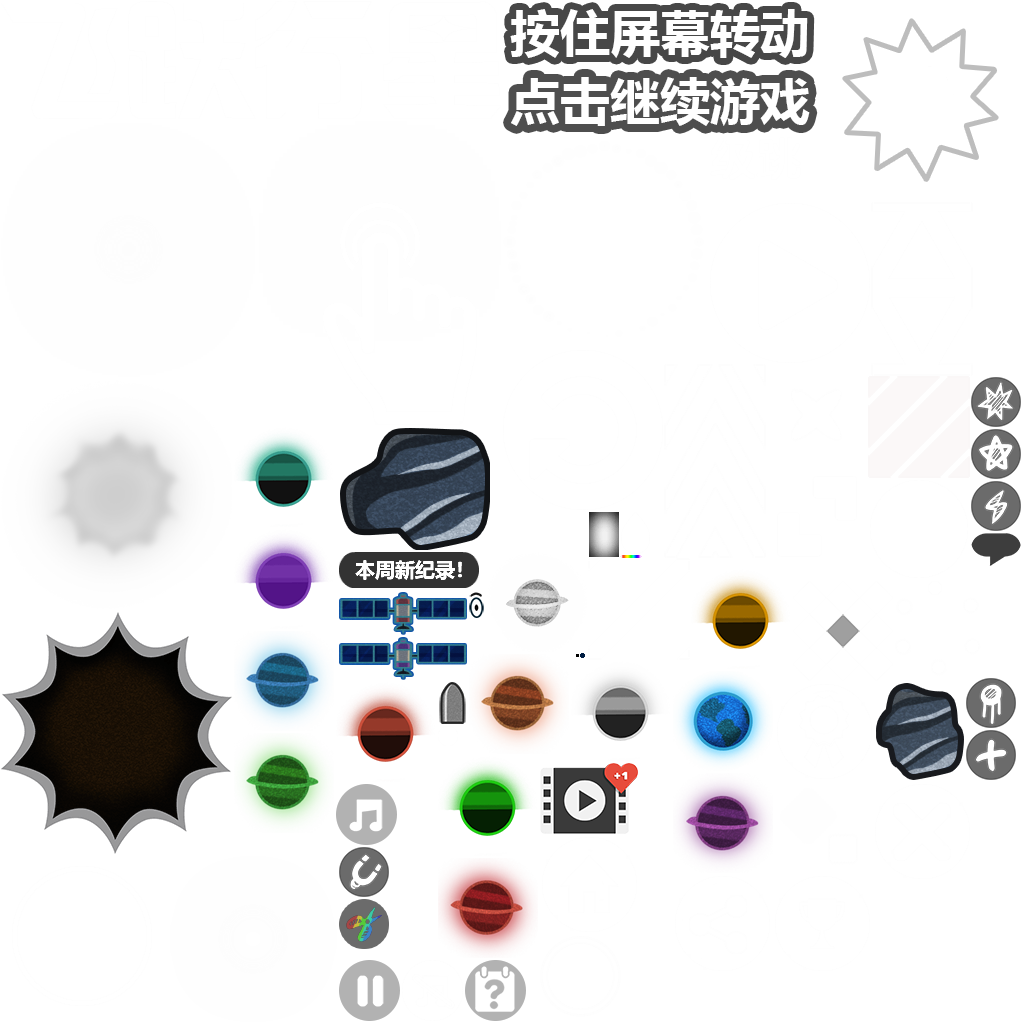
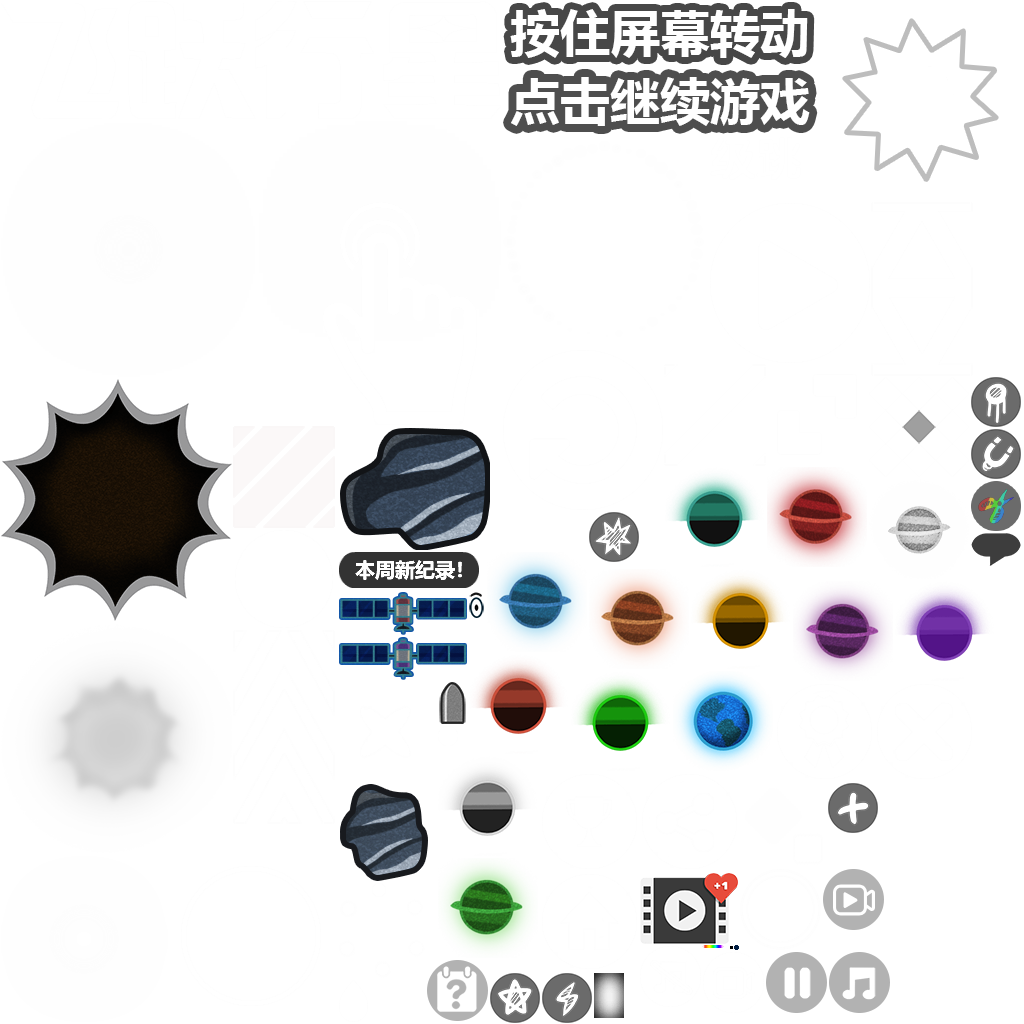
1

diff --git a/src/performance/ui/MainUI.ts b/src/performance/ui/MainUI.ts
@@ -1,28 +1,32 @@
 module planetJump {
-	export class MainUI extends fairygui.GComponent{
-		private scoreTxt:ScoreText;
-		private multTxt:fairygui.GComponent;
-		private levelTxt:fairygui.GComponent;
-		private pauseBtn:fairygui.GButton;
-		private musicBtn:fairygui.GButton;	
-		private helpBtn:fairygui.GButton;	
-		private closeHelpBtn:fairygui.GButton;	
-		private pausePanel:fairygui.GComponent;
-		private helpPanel:fairygui.GComponent;
-		private continueBtn:fairygui.GButton;
-		private newRecord:fairygui.GComponent;
-		private gameOverCtrl:fairygui.Controller;
+	export class MainUI extends fairygui.GComponent {
+		private scoreTxt: ScoreText;
+		private multTxt: fairygui.GComponent;
+		private levelTxt: fairygui.GComponent;
+		private pauseBtn: fairygui.GButton;
+		private musicBtn: fairygui.GButton;
+		private helpBtn: fairygui.GButton;
+		private closeHelpBtn: fairygui.GButton;
+		private recordBtn: fairygui.GButton;
+		private pausePanel: fairygui.GComponent;
+		private helpPanel: fairygui.GComponent;
+		private continueBtn: fairygui.GButton;
+		private newRecord: fairygui.GComponent;
+		private gameOverCtrl: fairygui.Controller;
+		private platCtrl: fairygui.Controller;
 
-		private soundOn:boolean = true;
-		private hasShowNewRecord:boolean = false;
+		private soundOn: boolean = true;
+		private hasShowNewRecord: boolean = false;
+		private recordTime: number;
+		private isRecording: boolean;
 
-		public constructor(){
+		public constructor() {
 			super();
 			let self = this;
 			utils.StageUtils.addEventListener("createGame", self.onCreateGame, self);
 		}
 
-		private onCreateGame(){
+		private onCreateGame() {
 			let self = this;
 			self.registerListener();
 			self.gameOverCtrl.setSelectedIndex(0);
@@ -34,7 +38,7 @@ module planetJump {
 			self.setSound();
 		}
 
-		private registerListener(){
+		private registerListener() {
 			let self = this;
 			utils.EventDispatcher.getInstance().addEventListener("updateScore", self.updateScore, self);
 			utils.EventDispatcher.getInstance().addEventListener("onAppPause", self.onPause, self);
@@ -45,20 +49,20 @@ module planetJump {
 			utils.EventDispatcher.getInstance().addEventListener("gameReviveOk", self.onGameReviveOk, self);
 		}
 
-		public constructFromResource(){
-            super.constructFromResource();
-            let self = this;
-			self.pauseBtn = self.getChild("pauseBtn").asButton;   
+		public constructFromResource() {
+			super.constructFromResource();
+			let self = this;
+			self.pauseBtn = self.getChild("pauseBtn").asButton;
 			self.pauseBtn.addClickListener(self.onPauseBtn, self);
-			self.musicBtn = self.getChild("musicBtn").asButton; 
+			self.musicBtn = self.getChild("musicBtn").asButton;
 			self.musicBtn.addClickListener(self.onMusicBtn, self);
-			self.helpBtn = self.getChild("helpBtn").asButton; 
-			self.helpBtn.addClickListener(self.showHelpPanel, self);		
+			self.helpBtn = self.getChild("helpBtn").asButton;
+			self.helpBtn.addClickListener(self.showHelpPanel, self);
 			self.pausePanel = self.getChild("pausePanel").asCom;
 			self.pausePanel.visible = false;
 			self.helpPanel = self.getChild("helpPanel").asCom;
 			self.helpPanel.visible = false;
-			self.closeHelpBtn = self.helpPanel.getChild("closeBtn").asButton; 
+			self.closeHelpBtn = self.helpPanel.getChild("closeBtn").asButton;
 			self.closeHelpBtn.addClickListener(self.closeHelpPanel, self);
 			self.continueBtn = self.pausePanel.getChild("continueBtn").asButton;
 			self.continueBtn.addClickListener(self.onContinueBtn, self);
@@ -70,150 +74,190 @@ module planetJump {
 			self.levelTxt.alpha = 0;
 			self.newRecord = self.getChild("newRecord").asCom;
 			self.newRecord.alpha = 0;
-        }
+			self.platCtrl = self.getController("platCtrl");
 
-		private onPauseBtn(e){
+			self.platCtrl.setSelectedPage("tt");
+			self.recordBtn = self.getChild("recordBtn").asButton;
+			self.recordBtn.addClickListener(self.onRecordVideo, self);
+
+			if (platform.isRunInTT()) {
+				let recorder = platform.getGameRecorderManager();
+				recorder.onStop(() => {
+					console.log("录屏停止");
+				});
+			}
+		}
+
+		private onPauseBtn(e) {
 			let self = this;
 			self.pause();
 		}
 
-		private onPause(){
+		private onPause() {
 			let self = this;
-			if(GameMgr.getInstance().isPaused || GameMgr.getInstance().gameOver)
+			if (GameMgr.getInstance().isPaused || GameMgr.getInstance().gameOver)
 				return;
-				
+
 			self.pause();
 		}
 
-		private pause(){
+		private pause() {
 			let self = this;
 			GameMgr.getInstance().setPause(true);
 			self.showPausePanel();
 		}
 
-		private showPausePanel(){
+		private showPausePanel() {
 			let self = this;
 			self.pausePanel.visible = true;
 			egret.Tween.removeTweens(self.pausePanel);
-			egret.Tween.get(self.pausePanel).to({alpha:1}, 300, egret.Ease.sineInOut);
-			
+			egret.Tween.get(self.pausePanel).to({ alpha: 1 }, 300, egret.Ease.sineInOut);
+
 			// 广告
 			utils.Singleton.get(AdMgr).showBannerAd("暂停界面banner");
 		}
 
-		private closePausePanel(){
+		private closePausePanel() {
 			let self = this;
 			egret.Tween.removeTweens(self.pausePanel);
-			egret.Tween.get(self.pausePanel).to({alpha:0}, 300, egret.Ease.sineInOut).call(() => {
+			egret.Tween.get(self.pausePanel).to({ alpha: 0 }, 300, egret.Ease.sineInOut).call(() => {
 				self.pausePanel.visible = false;
 			});
 			utils.Singleton.get(AdMgr).hideBanner();
 		}
 
-		private onMusicBtn(e){		
+		private onMusicBtn(e) {
 			let self = this;
 			self.soundOn = !self.soundOn;
 			self.setSound();
 		}
 
-		private setSound(){
-			let self = this;			
+		private setSound() {
+			let self = this;
 			utils.Singleton.get(utils.SoundMgr).setSoundMute(!self.soundOn);
 			utils.Singleton.get(utils.SoundMgr).setBgmMute(!self.soundOn);
-			
+
 			self.musicBtn.getController("button").setSelectedIndex(self.soundOn ? 0 : 1);
 		}
 
-		private onContinueBtn(e){
+		private onContinueBtn(e) {
 			let self = this;
 			GameMgr.getInstance().setPause(false);
 			self.closePausePanel();
 		}
 
-		private onNewRound(rounds){
+		private onNewRound(rounds) {
 			let self = this;
-			if(rounds <= 1) 
+			if (rounds <= 1)
 				return;
-			
-			egret.Tween.get(self.scoreTxt).to({alpha:0}, 200);
+
+			egret.Tween.get(self.scoreTxt).to({ alpha: 0 }, 200);
 
 			// 显示倍数动画	
-			self.multTxt.visible = true;		
+			self.multTxt.visible = true;
 			self.multTxt.getChild("txt").asTextField.text = "x" + rounds;
 			egret.Tween.removeTweens(self.multTxt);
-			egret.Tween.get(self.multTxt).set({scaleX:0, scaleY:0, alpha:0})
-			.to({scaleX:1.5, scaleY:1.5, alpha:1, rotation:20}, 250, egret.Ease.sineInOut)
-			.to({rotation:-20}, 300, egret.Ease.sineInOut)
-			.to({scaleX:1, scaleY:1, rotation:0}, 500, egret.Ease.sineInOut).call(() => {
-				egret.Tween.get(self.scoreTxt).to({alpha:1}, 300);
-			})
-			.to({scaleX:0, scaleY:0, alpha:0}, 500, egret.Ease.sineInOut);
+			egret.Tween.get(self.multTxt).set({ scaleX: 0, scaleY: 0, alpha: 0 })
+				.to({ scaleX: 1.5, scaleY: 1.5, alpha: 1, rotation: 20 }, 250, egret.Ease.sineInOut)
+				.to({ rotation: -20 }, 300, egret.Ease.sineInOut)
+				.to({ scaleX: 1, scaleY: 1, rotation: 0 }, 500, egret.Ease.sineInOut).call(() => {
+					egret.Tween.get(self.scoreTxt).to({ alpha: 1 }, 300);
+				})
+				.to({ scaleX: 0, scaleY: 0, alpha: 0 }, 500, egret.Ease.sineInOut);
 		}
 
-		private onLevelUp(lv:number){
+		private onLevelUp(lv: number) {
 			let self = this;
 			self.levelTxt.getChild("txt").asTextField.text = "LEVEL " + lv;
-			egret.Tween.get(self.levelTxt).set({alpha:0}).to({alpha:1, scaleX:1.5, scaleY:1.5}, 500, egret.Ease.sineInOut).wait(500).to({alpha:0, scaleX:1, scaleY:1}, 500, egret.Ease.sineInOut);
+			egret.Tween.get(self.levelTxt).set({ alpha: 0 }).to({ alpha: 1, scaleX: 1.5, scaleY: 1.5 }, 500, egret.Ease.sineInOut).wait(500).to({ alpha: 0, scaleX: 1, scaleY: 1 }, 500, egret.Ease.sineInOut);
 		}
-		
-		private updateScore(score:number){
+
+		private updateScore(score: number) {
 			let self = this;
 			self.scoreTxt.setScore(score);
 
 			// 破记录提示
-			if(!self.hasShowNewRecord && score > GameMgr.getInstance().scoreRecord){
+			if (!self.hasShowNewRecord && score > GameMgr.getInstance().scoreRecord) {
 				self.newRecord.alpha = 1;
 				self.newRecord.getTransition("t0").play(() => {
-					egret.Tween.get(self.newRecord).wait(1000).to({alpha: 0}, 1000, egret.Ease.sineInOut);
+					egret.Tween.get(self.newRecord).wait(1000).to({ alpha: 0 }, 1000, egret.Ease.sineInOut);
 				}, self);
 				self.hasShowNewRecord = true;
-				utils.Singleton.get(utils.SoundMgr).playSound("newHighScore_mp3");;	
+				utils.Singleton.get(utils.SoundMgr).playSound("newHighScore_mp3");;
 			}
 		}
 
-		private onGameOver(){
+		private onGameOver() {
 			let self = this;
 			self.gameOverCtrl.setSelectedIndex(1);
 		}
-		
-		private onGameReviveOk(){
+
+		private onGameReviveOk() {
 			let self = this;
 			self.gameOverCtrl.setSelectedIndex(0);
 		}
 
-		private showHelpPanel(){
+		private showHelpPanel() {
 			let self = this;
-			if(GameMgr.getInstance().isPaused || GameMgr.getInstance().gameOver)
+			if (GameMgr.getInstance().isPaused || GameMgr.getInstance().gameOver)
 				return;
 			GameMgr.getInstance().setPause(true, false);
 
 			self.helpPanel.visible = true;
 			egret.Tween.removeTweens(self.helpPanel);
-			egret.Tween.get(self.helpPanel).to({alpha:1}, 300, egret.Ease.sineInOut);
-			
+			egret.Tween.get(self.helpPanel).to({ alpha: 1 }, 300, egret.Ease.sineInOut);
+
 			// 广告
 			utils.Singleton.get(AdMgr).showBannerAd("帮助界面banner");
 		}
 
-		private closeHelpPanel(){
+		private closeHelpPanel() {
 			let self = this;
 			GameMgr.getInstance().setPause(false, false);
 
 			egret.Tween.removeTweens(self.helpPanel);
-			egret.Tween.get(self.helpPanel).to({alpha:0}, 300, egret.Ease.sineInOut).call(() => {
+			egret.Tween.get(self.helpPanel).to({ alpha: 0 }, 300, egret.Ease.sineInOut).call(() => {
 				self.helpPanel.visible = false;
 			});
 			utils.Singleton.get(AdMgr).hideBanner();
 		}
 
-		public dispose(){
+		private onRecordVideo() {
+			let self = this;
+			if (!platform.isRunInTT())
+				return;
+
+			let recorder = platform.getGameRecorderManager();
+
+			if (!self.isRecording) {
+				self.isRecording = true;
+				recorder.start({ duration: 30 });
+				self.recordTime = Date.now();
+				self.recordBtn.getController("state").setSelectedPage("down");
+				self.recordBtn.getTransition("recordAni").play(null, null, null, -1);
+			} else {
+				let dt = Date.now() - self.recordTime;
+				if (dt > 3000) {
+					recorder.stop();
+					self.isRecording = false;
+					self.recordBtn.getController("state").setSelectedPage("up");
+					self.recordBtn.getTransition("recordAni").stop();
+				}
+				else {
+					console.warn("录屏时长需大于3秒~");
+				}
+			}
+		}
+
+		public dispose() {
 			super.dispose();
 			let self = this;
 			self.pauseBtn.removeClickListener(self.onPauseBtn, self);
-			self.musicBtn.removeClickListener(self.onMusicBtn, self);		
-			self.helpBtn.removeClickListener(self.showHelpPanel, self);	
+			self.musicBtn.removeClickListener(self.onMusicBtn, self);
+			self.helpBtn.removeClickListener(self.showHelpPanel, self);
 			self.closeHelpBtn.addClickListener(self.closeHelpPanel, self);
 			self.continueBtn.removeClickListener(self.onContinueBtn, self);
+			self.recordBtn.removeClickListener(self.onRecordVideo, self);
 
 			utils.StageUtils.removeEventListener("createGame", self.onCreateGame, self);
 			utils.EventDispatcher.getInstance().removeEventListener("updateScore", self.updateScore, self);

diff --git a/src/Platform.ts b/src/Platform.ts
@@ -17,6 +17,25 @@ declare interface Platform {
     isRuniOS(): boolean;
     setUserCloudStorage(kvDataList: any[], success?: Function, fail?: Function, complete?: Function);
     loadFont(url: string);
+    getGameRecorderManager(): GameRecorderManager;
+}
+
+/**头条必接录屏功能 */
+declare interface GameRecorderManager {
+    start(arg: { duration: number });
+    pause();
+    resume();
+    stop();
+    recordClip(arg: { timeRange, success, fail, complete });
+    clipVideo(arg: any);
+    
+    onStart(func: Function);
+    onPause(func: Function);
+    onResume(func: Function);
+    onStop(func: Function);
+    onError(func: Function);
+    onInterruptionBegin(func: Function);
+    onInterruptionEnd(func: Function);
 }
 
 class DebugPlatform implements Platform {
@@ -93,6 +112,10 @@ class DebugPlatform implements Platform {
 
     loadFont(url: string) {
 
+    }
+
+    getGameRecorderManager() {
+        return null;
     }
 }
 

diff --git a/src/performance/ui/ReadyPanel.ts b/src/performance/ui/ReadyPanel.ts
@@ -40,7 +40,6 @@ module planetJump {
 			const userInfo = await platform.getUserInfo();
 			Main.myAvatarUrl = userInfo.avatarUrl;
 			Main.isScopeUserInfo = true;
-			console.log("授权成功");
 			self.onStartBtn(null);
 		}
 
